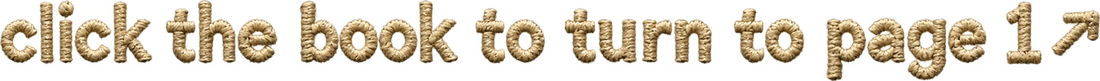
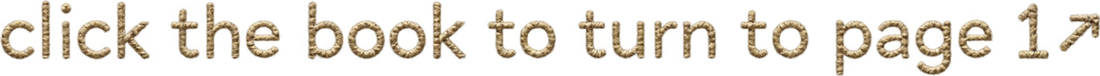
Refine the pocket stitching and homepage spacing

diff --git a/assets/site.css b/assets/site.css
@@ -34,12 +34,16 @@ main { width: min(60rem, calc(100% - 2.5rem)); margin: clamp(1.25rem, 5vw, 3.75r
 a { color: var(--mint); text-underline-offset: .22em; }
 a:hover { color: var(--orange); }
 .mono, h1, h2 { font-family: "IBM Plex Mono", Consolas, "Courier New", monospace; }
+.profile-page {
+  --profile-top-space: clamp(1.15rem, 1.75vw, 1.35rem);
+  margin-top: var(--profile-top-space);
+}
 .adventure-stage { position: relative; isolation: isolate; }
 .adventure-stage::before {
   content: "";
   position: absolute;
   z-index: -1;
-  inset: calc(-1 * clamp(1.25rem, 5vw, 3.75rem)) -1.25rem -.6rem;
+  inset: calc(-1 * var(--profile-top-space)) -1.25rem -.6rem;
   background: url('./adventure-canvas-weave.webp') center top / cover no-repeat;
   mask-image:
     linear-gradient(90deg, transparent, #000 12% 88%, transparent),
@@ -52,7 +56,7 @@ a:hover { color: var(--orange); }
   position: relative;
   isolation: isolate;
   display: block;
-  padding-top: clamp(1.15rem, 4vw, 2.5rem);
+  padding-top: clamp(.55rem, 1.4vw, 1rem);
   text-decoration: none;
 }
 .adventure-book-window {
@@ -83,7 +87,7 @@ a:hover { color: var(--orange); }
   align-items: center;
   align-content: start;
   gap: .35rem clamp(.45rem, 1.4vw, .85rem);
-  min-height: clamp(3.65rem, 11vw, 6.8rem);
+  min-height: clamp(3.4rem, 8vw, 5.2rem);
   margin: -.6rem clamp(-1.25rem, -2.1vw, -.4rem) 0;
   padding: clamp(.23rem, .65vw, .4rem) clamp(.8rem, 3vw, 1.5rem) 1rem;
 }
@@ -101,8 +105,12 @@ a:hover { color: var(--orange); }
   filter: drop-shadow(0 2px 2px #001313da);
   transform: rotate(-2deg);
 }
-.adventure-pocket-action { width: min(100%, clamp(10.5rem, 23vw, 13.25rem)); }
+.adventure-pocket-action {
+  width: min(100%, clamp(10.5rem, 23vw, 13.25rem));
+  transform: translateY(clamp(.32rem, .7vw, .46rem));
+}
 .adventure-pocket-tab img, .adventure-pocket-action img { display: block; width: 100%; height: auto; }
+.adventure-pocket-action img { filter: brightness(1.12); }
 .adventure-pocket-label {
   position: absolute;
   inline-size: 1px;
@@ -112,7 +120,10 @@ a:hover { color: var(--orange); }
   white-space: nowrap;
 }
 .adventure-pocket:focus-visible { outline: 2px solid var(--orange); outline-offset: 4px; }
-.adventure-stage + .hero { border-top: 0; }
+.adventure-stage + .hero {
+  border-top: 0;
+  padding-top: clamp(.25rem, 1vw, .7rem);
+}
 @media (forced-colors: active) {
   .adventure-stage::before, .adventure-pocket-front::before,
   .adventure-pocket-tab img, .adventure-pocket-action img { display: none; }

diff --git a/index.html b/index.html
@@ -21,10 +21,10 @@
   <meta name="twitter:card" content="summary_large_image">
   <meta name="twitter:image" content="https://benohanlon.md/assets/adventure-a4-pocket-social.jpg">
   <meta name="twitter:image:alt" content="Journey to the Centre of the Problem, a worn illustrated paperback tucked into a dark teal pocket.">
-  <link rel="stylesheet" href="./assets/site.css?v=a4-pocket-embroidery">
+  <link rel="stylesheet" href="./assets/site.css?v=a4-pocket-spacing-2">
 </head>
 <body>
-  <main>
+  <main class="profile-page">
     <div class="adventure-stage">
       <a class="adventure-pocket" href="./adventure.html">
         <span class="adventure-book-window">
@@ -37,7 +37,7 @@
             <span class="adventure-pocket-label">start here</span>
           </span>
           <span class="adventure-pocket-action">
-            <img src="./assets/adventure-a4-pocket-stitch.webp" alt="">
+            <img src="./assets/adventure-a4-pocket-stitch.webp?v=fine-thread" alt="">
             <span class="adventure-pocket-label">click the book to turn to page 1 <span aria-hidden="true">↗</span></span>
           </span>
         </span>
